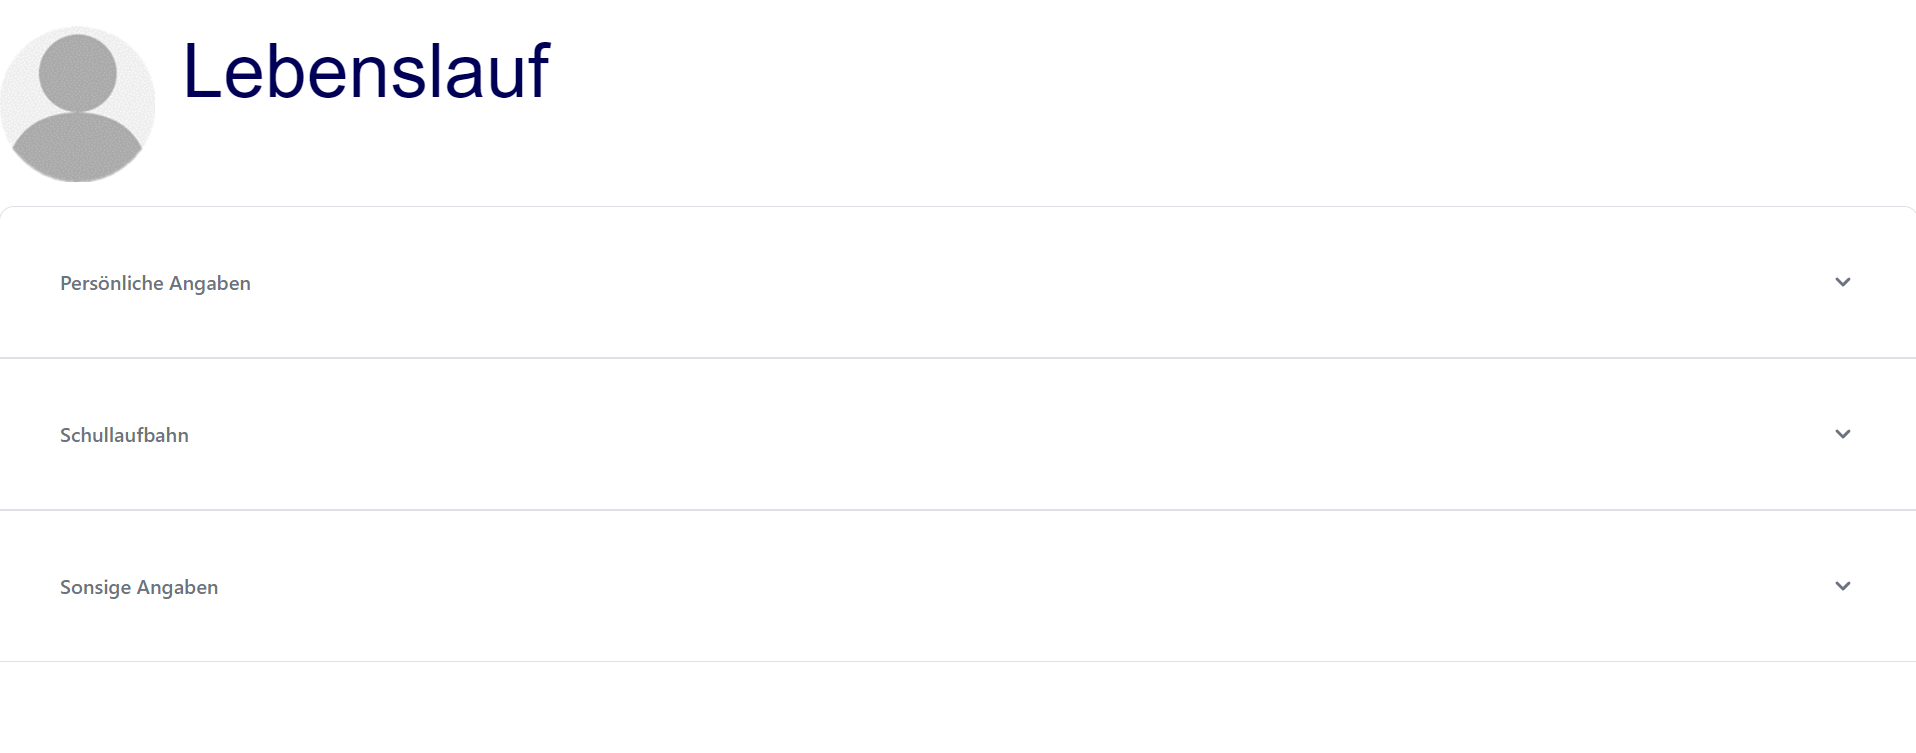
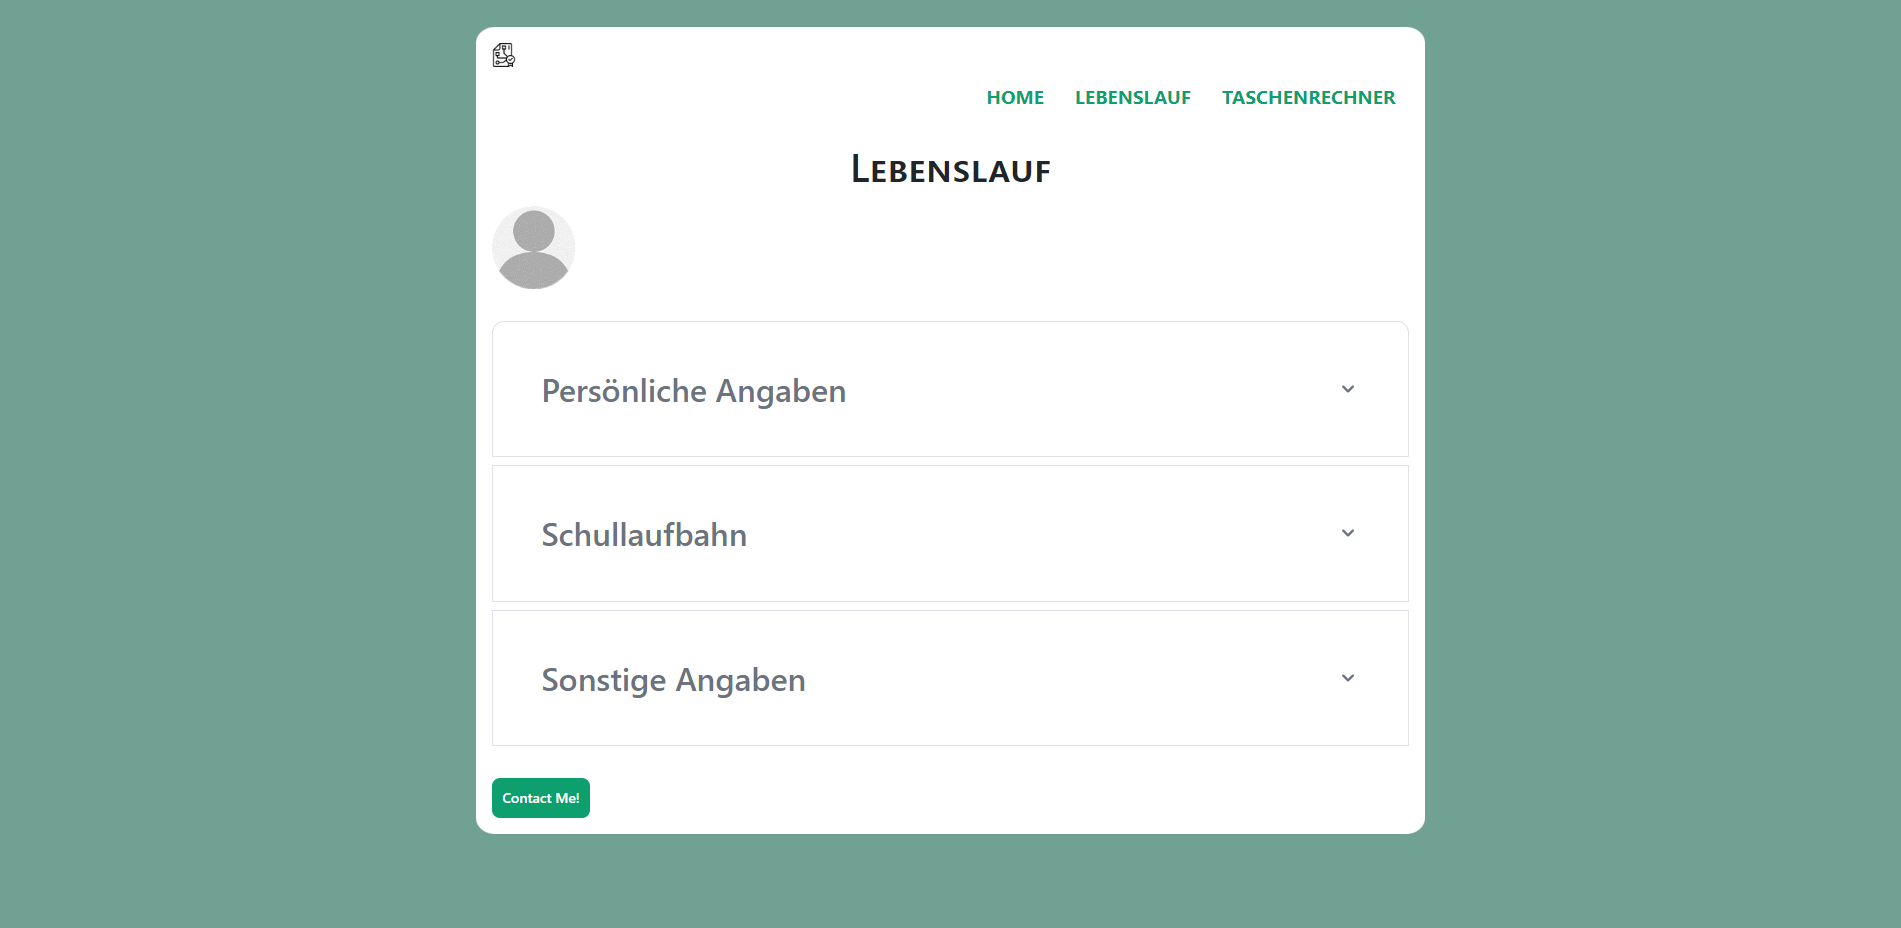
1.8

diff --git a/src/styles/global.css b/src/styles/global.css
@@ -1,5 +1,5 @@
 html {
-    background-color: #f1f5f9;
+    background-color: #71a192;
     font-family: sans-serif;
     font-size:x-large;
   }
@@ -9,12 +9,16 @@ html {
     max-width: 110ch;
     padding: 1rem;
     line-height: 2;
+    margin-top: 5%;
+    margin-bottom: 5%;
+    border-radius: 2%;
   }
   
   h1 {
     margin:1rem 0;
     font-size: 2.5rem;
     text-align: center;
+    font-variant: small-caps;
   }
   /* nav styles */
 
@@ -34,6 +38,7 @@ html {
     font-size: 1.2rem;
     font-weight: bold;
     text-transform: uppercase;
+    color: #0e9f6e;
   }
   
   .expanded {
@@ -72,3 +77,8 @@ html {
 .TR { 
   margin: auto;
 }
+
+.box{
+  margin-left: 5%;
+  margin-right: 5%;
+  }
